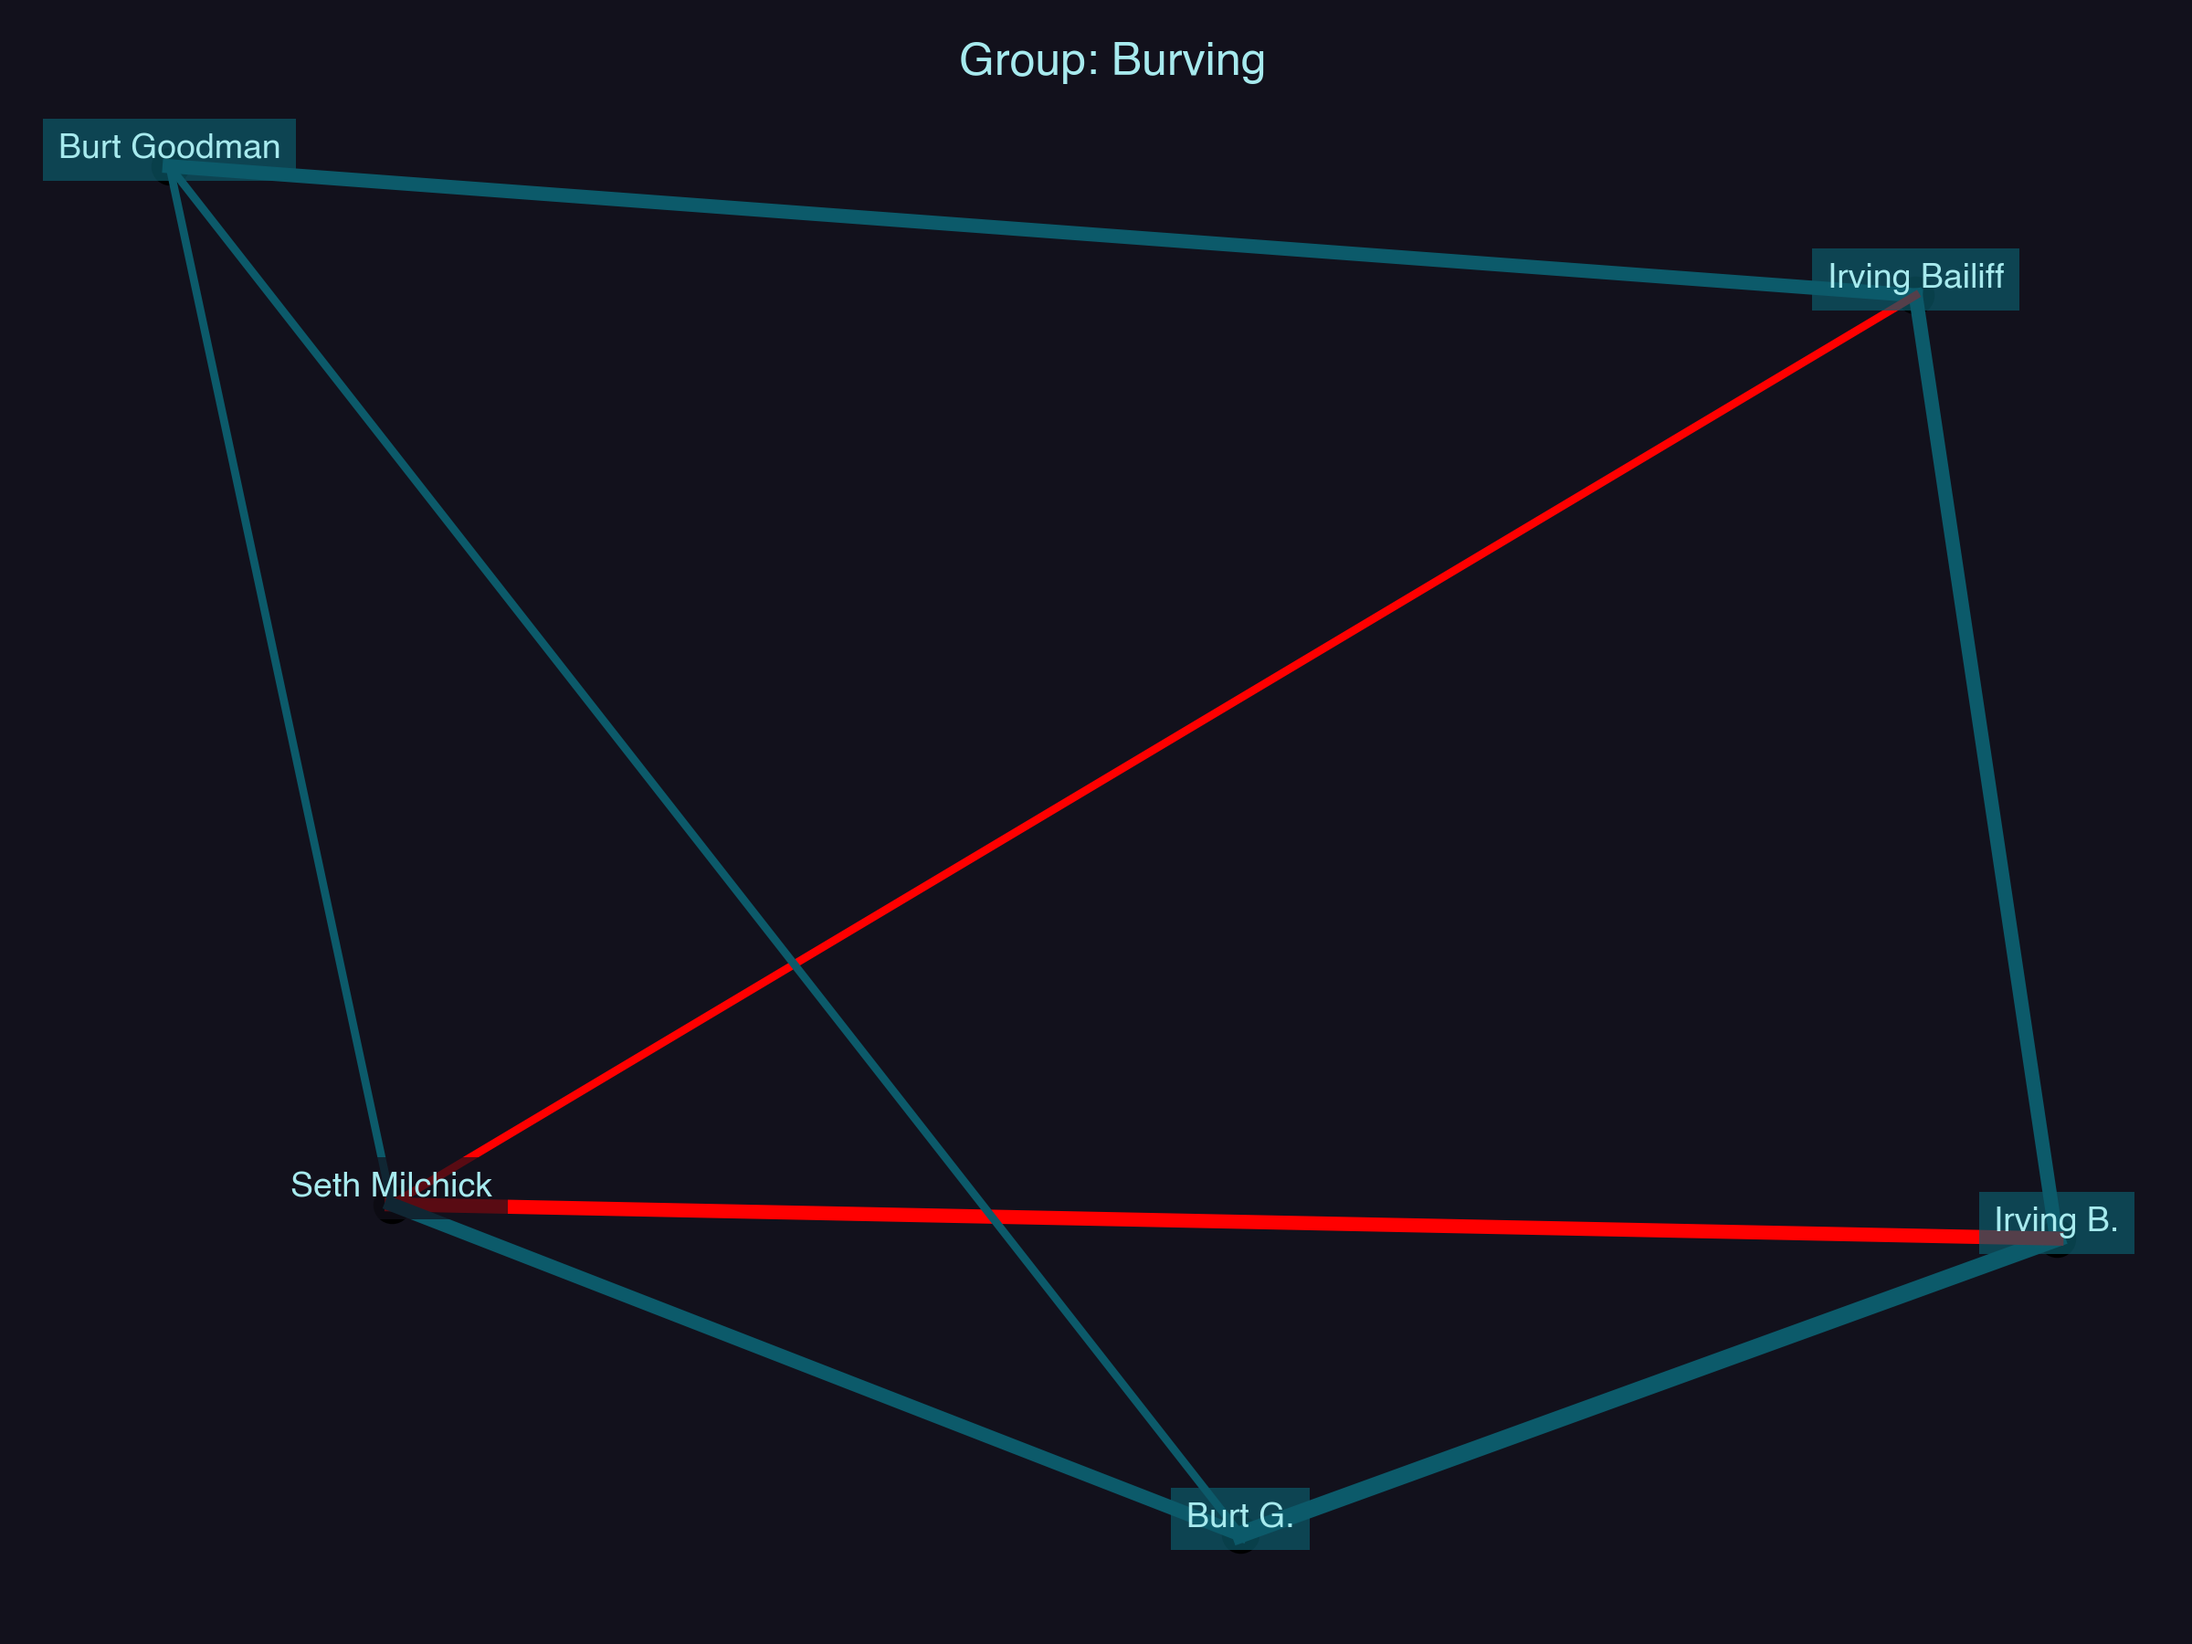
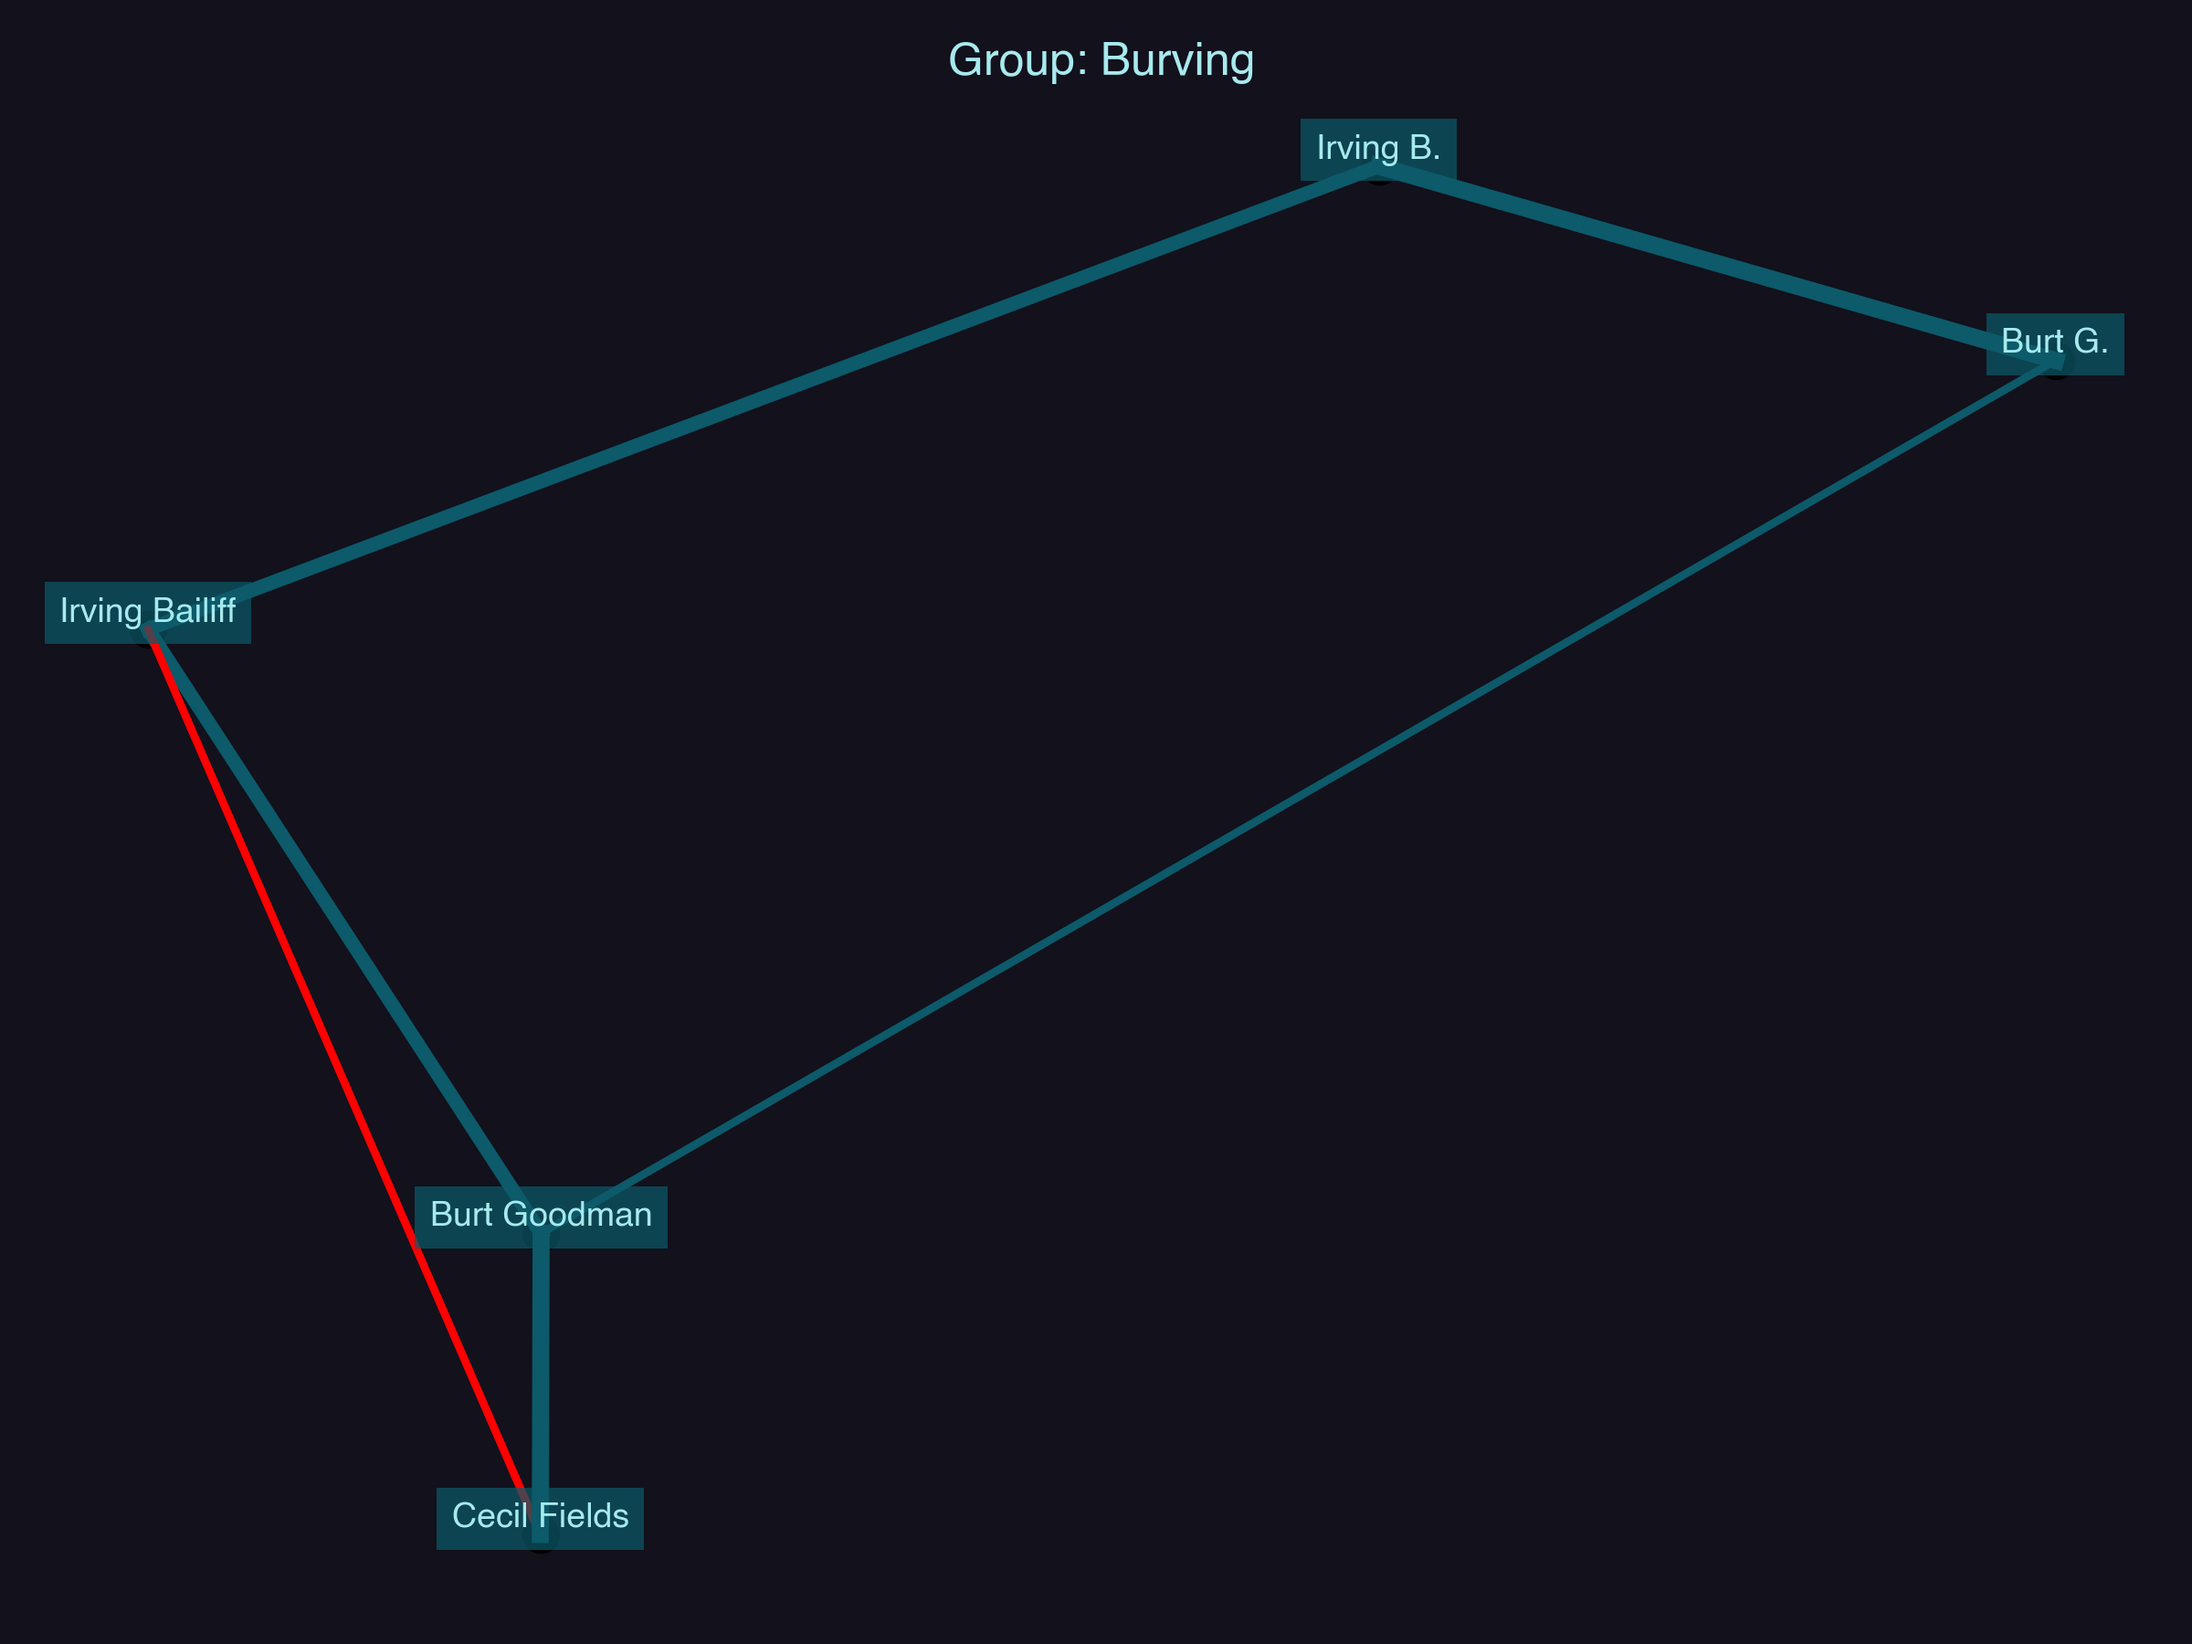
burving has fields now

diff --git a/docs/groups/Burving.html b/docs/groups/Burving.html
@@ -22,7 +22,7 @@
   
   <div style="background-color: var(--lumon-mint); padding: 1.5rem; margin: 1.5rem 0; border-left: 4px solid var(--lumon-teal);">
     <h3 style="margin-top: 0;">Members</h3>
-    <p style="margin-bottom: 0;">Irving B., Irving Bailiff, Burt G., Burt Goodman</p>
+    <p style="margin-bottom: 0;">Irving B., Irving Bailiff, Burt G., Burt Goodman, Cecil Fields</p>
   </div>
 
   <img src="../images/Burving_graph.png" alt="Relationship Network for Burving" class="large-graph" />
@@ -34,7 +34,7 @@
       <th>Average Affinity</th>
       <th>Magnitude</th>
     </tr>
-    <tr><td>Seth Milchick</td><td>+0.00</td><td>3.00</td></tr>
+    
   </table>
 </main>
 
